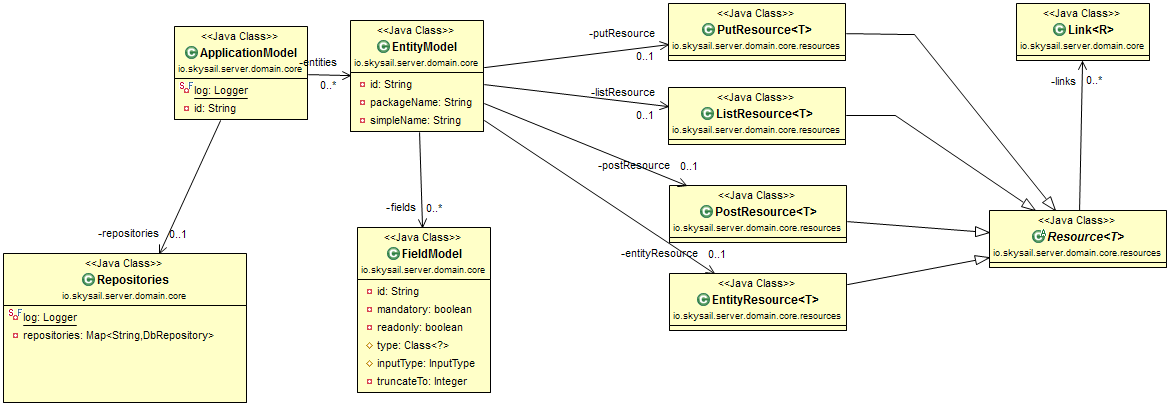
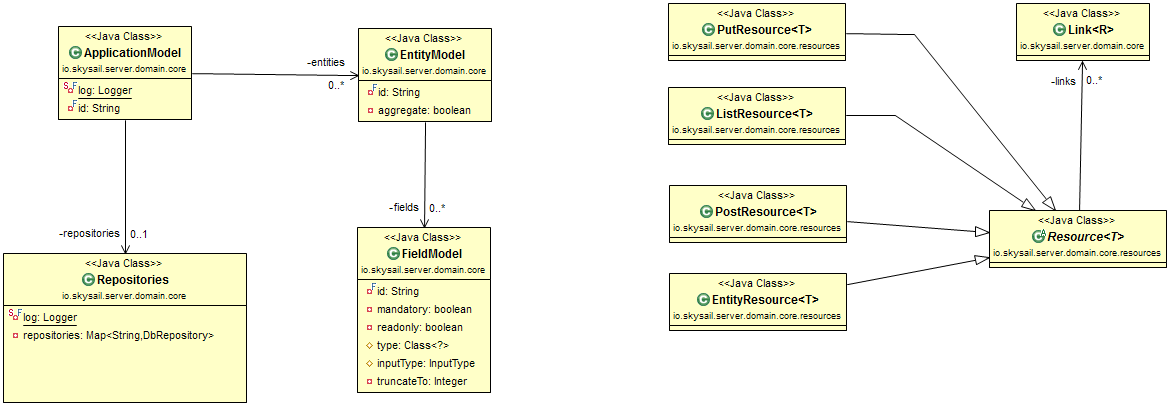
app model cleanups

diff --git a/skysail.server.converter/webapp/js/no-double-submit.js b/skysail.server.converter/webapp/js/no-double-submit.js
@@ -1,0 +1,5 @@
+$(function() {
+    $(".btn[type='submit']").on('click', function() {
+        $(this).attr('disabled', '');
+    });
+});

diff --git a/skysail.server.domain/src/io/skysail/server/domain/core/EntityModel.java b/skysail.server.domain/src/io/skysail/server/domain/core/EntityModel.java
@@ -2,8 +2,6 @@ package io.skysail.server.domain.core;
 
 import java.util.*;
 
-import io.skysail.api.domain.Identifiable;
-import io.skysail.server.domain.core.resources.*;
 import lombok.*;
 
 /**
@@ -13,32 +11,33 @@ import lombok.*;
  *
  */
 @Getter
-@Setter
 @ToString
-public class EntityModel implements Identifiable {
+public class EntityModel {
 
     /**
      * ID should be the full qualified java class name, i.e. io.skysail.entity.Customer
      */
-    private String id;
+    private final String id;
 
     /** the entities fields in a map with their id as key. */
+    @Setter
     private Map<String, FieldModel> fields = new HashMap<>();
 
-    private PostResource<EntityModel> postResource;
-    private PutResource<EntityModel> putResource;
-    private ListResource<EntityModel> listResource;
-    private EntityResource<EntityModel> entityResource;
+//    private PostResource<?> postResource;
+//    private PutResource<?> putResource;
+//    private ListResource<?> listResource;
+//    private EntityResource<?> entityResource;
     
     /** should this entity be treated as "Aggregate" (DDD)" */
+    @Setter
     private boolean aggregate = true;
 
-    public EntityModel(String fullQualifiedClassName) {
+    public EntityModel(@NonNull String fullQualifiedClassName) {
         this.id = fullQualifiedClassName;
-        postResource = new PostResource<>();
-        putResource = new PutResource<>();
-        listResource = new ListResource<>();
-        entityResource = new EntityResource<>();
+//        postResource = new PostResource<>();
+//        putResource = new PutResource<>();
+//        listResource = new ListResource<>();
+//        entityResource = new EntityResource<>();
     }
 
     public EntityModel add(FieldModel field) {

diff --git a/skysail.server.app.designer/test/io/skysail/server/app/designer/model/test/CodegenApplicationModelTest.java b/skysail.server.app.designer/test/io/skysail/server/app/designer/model/test/CodegenApplicationModelTest.java
@@ -22,7 +22,6 @@ import io.skysail.server.app.designer.repo.DesignerRepository;
 import io.skysail.server.domain.core.EntityModel;
 
 @RunWith(MockitoJUnitRunner.class)
-@Ignore
 public class CodegenApplicationModelTest {
 
     @Rule
@@ -60,7 +59,7 @@ public class CodegenApplicationModelTest {
     public void adding_entity_succeeds() {
         CodegenApplicationModel applicationModel = new CodegenApplicationModel(application, repo);
         CodegenEntityModel addedEntity = applicationModel.addEntity(new Entity("entityName"));
-        assertThat(addedEntity.getId(), is(equalTo("entityName")));
+        assertThat(addedEntity.getId(), is(equalTo("pkgName.entityName")));
     }
 
     @Test
@@ -78,7 +77,6 @@ public class CodegenApplicationModelTest {
         CodegenEntityModel entity = applicationModel.addEntity(new Entity("entityName"));
         Entity unknownEntity = new Entity("entityName");
         entity.addReference(unknownEntity);
-        applicationModel.validate();
     }
 
     @Test
@@ -88,7 +86,6 @@ public class CodegenApplicationModelTest {
         CodegenEntityModel entity = applicationModel.addEntity(new Entity("entityName"));
         Entity unknownEntity = new Entity("unknown");
         entity.addReference(unknownEntity);
-        applicationModel.validate();
     }
 
     @Test

diff --git a/skysail.server.app.designer/src/io/skysail/server/app/designer/ApplicationCreator.java b/skysail.server.app.designer/src/io/skysail/server/app/designer/ApplicationCreator.java
@@ -84,7 +84,6 @@ public class ApplicationCreator {
 
         try {
             SkysailApplication applicationInstance = (SkysailApplication) applicationClass.newInstance();
-
             repositoryClasses.stream().forEach(repositoryClass -> {
                 try {
                     DbRepository dbRepoInstance = (DbRepository) repositoryClass.newInstance();
@@ -92,9 +91,8 @@ public class ApplicationCreator {
                     repos.setRepository(dbRepoInstance);
                     setRepositoriesInApplication(applicationInstance);
                     activateRepository(dbRepoInstance);
-                } catch (Exception e) {
-                    // TODO should be thrown... java8?
-                    log.error(e.getMessage(), e);
+                } catch (Exception e ) {
+                   throw new RuntimeException(e.getMessage(), e);
                 }
             });
 
@@ -177,9 +175,7 @@ public class ApplicationCreator {
     }
 
     private ST getStringTemplateIndex(String root) {
-        ST javafile = stGroup.getInstanceOf(root);
-        // javafile.add("application", applicationModel);
-        return javafile;
+        return stGroup.getInstanceOf(root);
     }
 
 }

diff --git a/skysail.server.app.designer/src/io/skysail/server/app/designer/model/CodegenApplicationModel.java b/skysail.server.app.designer/src/io/skysail/server/app/designer/model/CodegenApplicationModel.java
@@ -24,7 +24,6 @@ public class CodegenApplicationModel extends ApplicationModel {
         path = appFromDb.getPath();
         projectName = appFromDb.getProjectName();
         setupModel(appFromDb, repo);
-        validate();
     }
 
     private void setupModel(Application application, DesignerRepository repo) {
@@ -51,16 +50,4 @@ public class CodegenApplicationModel extends ApplicationModel {
         return entityModel;
     }
 
-    public void validate() {
-       // eachEntitiesReferencesMustPointToExistingEntity();
-    }
-//
-//    public CodegenEntityModel getEntityModel(ReferenceModel referenceModel) {
-//        return getEntityValues().stream()
-//                .map(CodegenEntityModel.class::cast)
-//                .filter(e -> {
-//                    return referenceModel.getReferencedEntityName().equals(e.getId());
-//                })
-//                .findFirst().orElseThrow(IllegalStateException::new);
-//    }
 }

diff --git a/skysail.server.codegen/src/io/skysail/server/codegen/model/JavaEntity.java b/skysail.server.codegen/src/io/skysail/server/codegen/model/JavaEntity.java
@@ -1,11 +1,10 @@
 package io.skysail.server.codegen.model;
 
+import javax.lang.model.element.Element;
+
 import io.skysail.server.codegen.annotations.GenerateResources;
 import io.skysail.server.codegen.apt.processors.EntityProcessor;
 import io.skysail.server.domain.core.EntityModel;
-
-import javax.lang.model.element.Element;
-
 import lombok.Getter;
 
 public class JavaEntity extends EntityModel implements JavaModel {
@@ -37,8 +36,8 @@ public class JavaEntity extends EntityModel implements JavaModel {
         return EntityProcessor.GENERATED_ANNOTATION;
     }
 
-    public String getLinkedResources() {
-        return getPostResourceClassName() + ".class";
-    }
+//    public String getLinkedResources() {
+//        return getPostResourceClassName() + ".class";
+//    }
 
 }

diff --git a/skysail.server.domain/src/io/skysail/server/domain/core/ApplicationModel.java b/skysail.server.domain/src/io/skysail/server/domain/core/ApplicationModel.java
@@ -2,7 +2,6 @@ package io.skysail.server.domain.core;
 
 import java.util.*;
 
-import io.skysail.api.domain.Identifiable;
 import io.skysail.api.repos.Repository;
 import lombok.*;
 import lombok.extern.slf4j.Slf4j;
@@ -18,11 +17,10 @@ import lombok.extern.slf4j.Slf4j;
  */
 @ToString
 @Slf4j
-public class ApplicationModel implements Identifiable {
+public class ApplicationModel {
 
     @Getter
-    @Setter
-    private String id;
+    private final String id;
 
     /** the applications entities in a map with their id as key. */
     private Map<String, EntityModel> entities = new HashMap<>();

diff --git a/skysail.server.domain/src/io/skysail/server/domain/core/FieldModel.java b/skysail.server.domain/src/io/skysail/server/domain/core/FieldModel.java
@@ -1,6 +1,5 @@
 package io.skysail.server.domain.core;
 
-import io.skysail.api.domain.Identifiable;
 import io.skysail.api.forms.InputType;
 import lombok.*;
 
@@ -11,10 +10,10 @@ import lombok.*;
 @Getter
 @Setter
 @ToString(of = {"id", "type", "inputType"})
-public class FieldModel implements Identifiable {
+public class FieldModel {
 
     /** the fields name or identifier, e.g. "title" */
-    private String id;
+    private final String id;
 
     /** a mandatory field must not be null or empty */
     private boolean mandatory;

diff --git a/skysail.server.app.designer/test/io/skysail/server/app/designer/test/TestRepository.java b/skysail.server.app.designer/test/io/skysail/server/app/designer/test/TestRepository.java
@@ -1,6 +1,6 @@
 package io.skysail.server.app.designer.test;
 
-import org.osgi.service.component.annotations.Reference;
+import org.osgi.service.component.annotations.*;
 
 import io.skysail.api.domain.Identifiable;
 import io.skysail.api.repos.DbRepository;
@@ -17,6 +17,10 @@ public class TestRepository implements DbRepository {
 
     public void unsetDbService(DbService dbService) {
         this.dbService = null;
+    }
+
+    @Activate
+    public void activate() {
     }
 
     @Override

diff --git a/skysail.server.domain/src/io/skysail/server/domain/core/resources/PostResource.java b/skysail.server.domain/src/io/skysail/server/domain/core/resources/PostResource.java
@@ -4,7 +4,5 @@ import io.skysail.api.domain.Identifiable;
 
 public class PostResource<T extends Identifiable> extends Resource<T> {
 
-    public PostResource() {
-    }
 
 }
